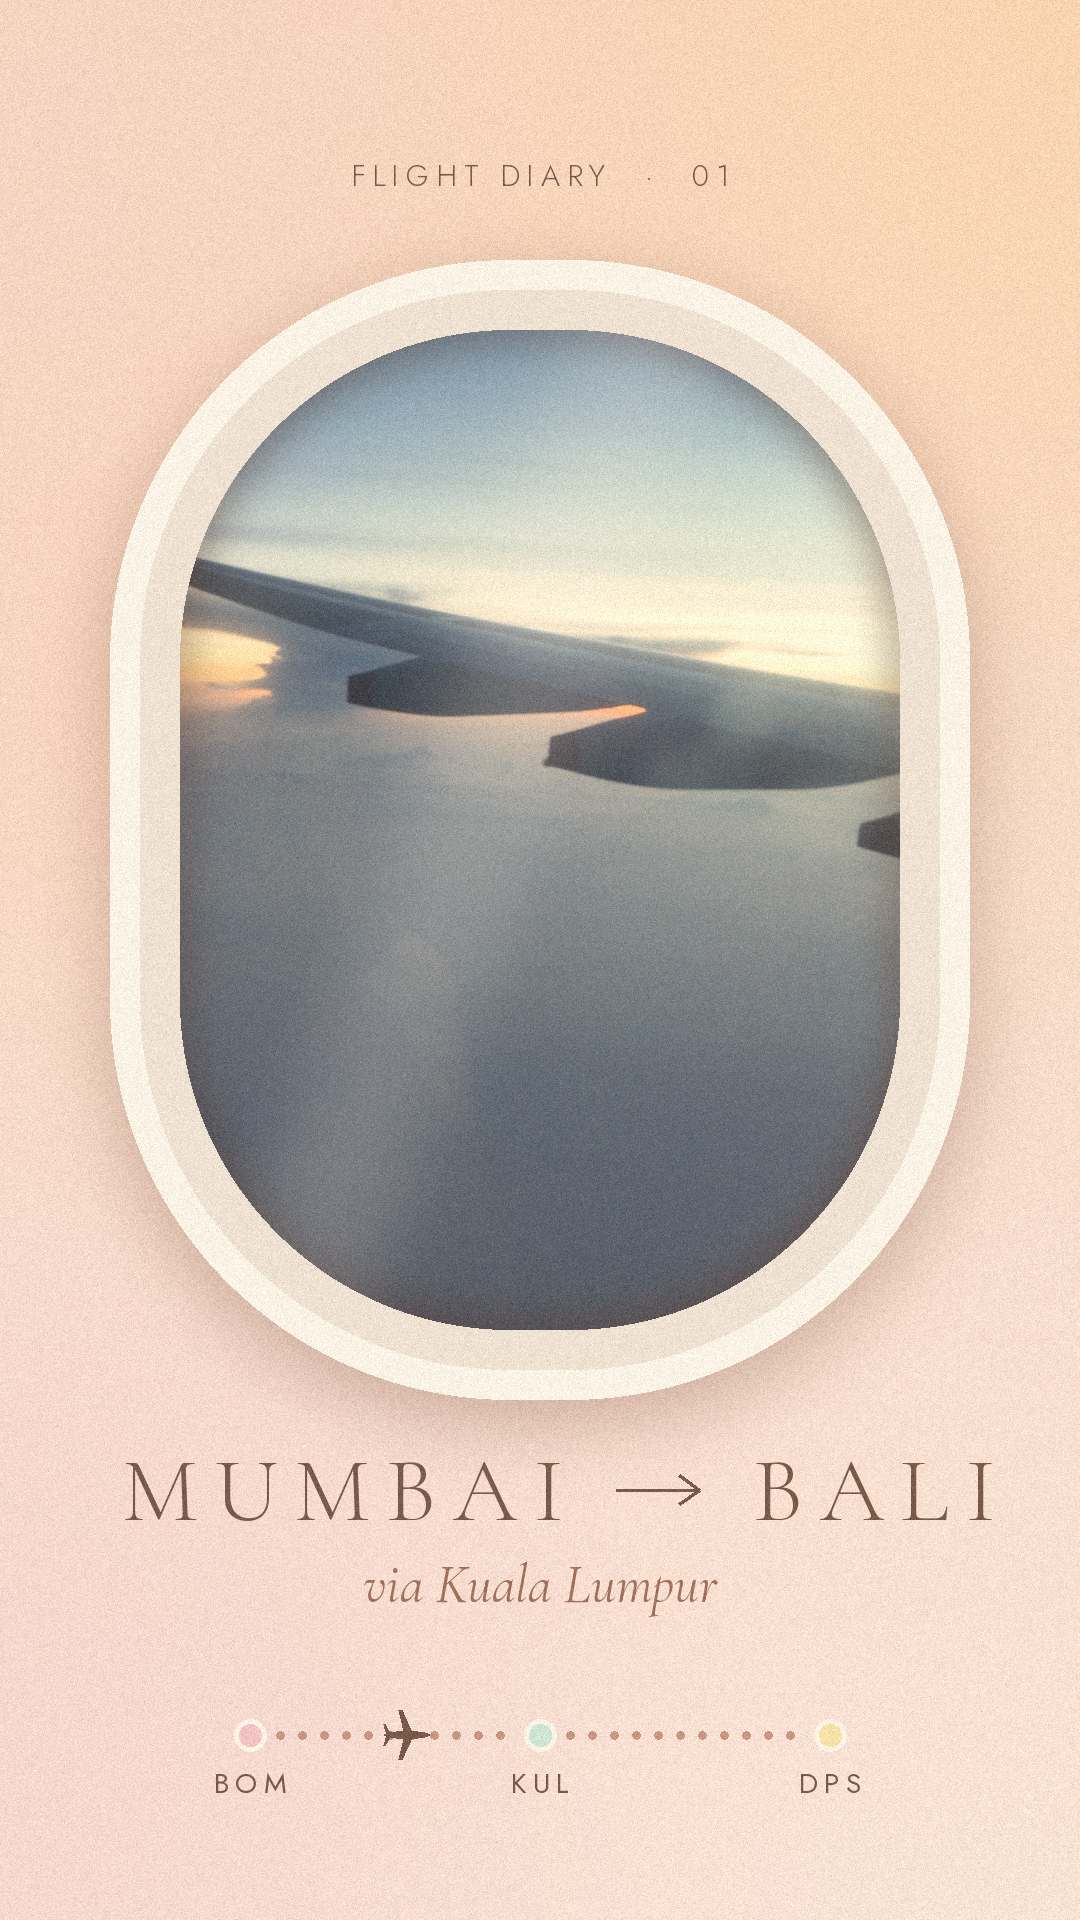
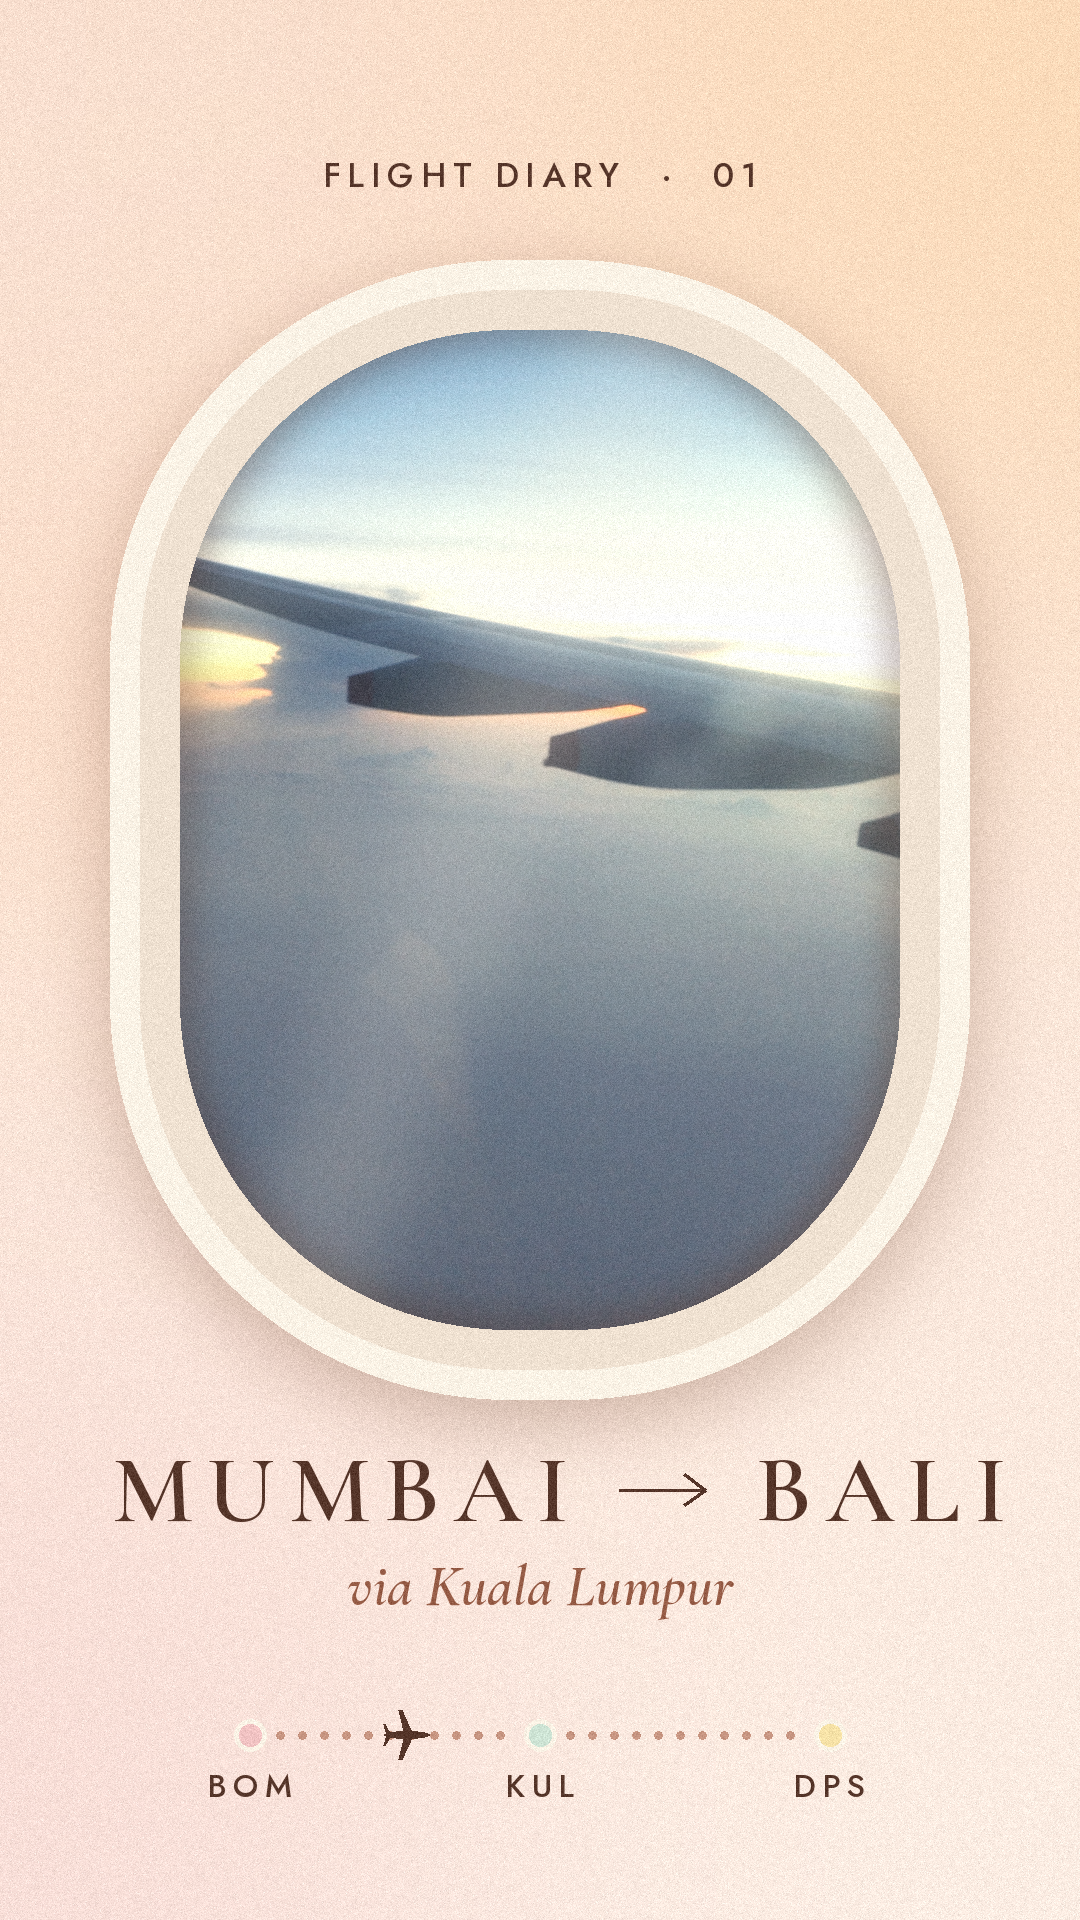
Brighten style frames and make on-screen text more legible
Brighter footage grade, bolder font weights, darker text colour and
slightly larger captions.

Claude-Session: https://claude.ai/code/session_01Lcr6SnvJFPy48tcbSxG92y

diff --git a/tools/style_frames.py b/tools/style_frames.py
@@ -7,11 +7,11 @@ OUT = sys.argv[2]
 W, H = 1080, 1920
 F = BASE + "/fonts/"
 caveat = lambda s: ImageFont.truetype(F + "f1.ttf", s)
-corm_i = lambda s: ImageFont.truetype(F + "f2.ttf", s)
-corm_l = lambda s: ImageFont.truetype(F + "f3.ttf", s)
+corm_i = lambda s: ImageFont.truetype(F + "g1.ttf", s)
+corm_l = lambda s: ImageFont.truetype(F + "g2.ttf", s)
 corm_m = lambda s: ImageFont.truetype(F + "f5.ttf", s)
-jost_l = lambda s: ImageFont.truetype(F + "f6.ttf", s)
-jost = lambda s: ImageFont.truetype(F + "f7.ttf", s)
+jost_l = lambda s: ImageFont.truetype(F + "g3.ttf", s)
+jost = lambda s: ImageFont.truetype(F + "g3.ttf", s)
 
 CREAM = (251, 243, 230)
 PEACH = (246, 213, 193)
@@ -21,16 +21,16 @@ MINT = (207, 229, 214)
 SAGE = (169, 200, 180)
 POWDER = (207, 221, 234)
 SUN = (245, 192, 74)
-INK = (122, 90, 74)
+INK = (86, 54, 42)
 
 
 def grade(img, warmth=1.0):
     """Warm peach film grade: lifted blacks, softened saturation, bloom, grain."""
     a = np.asarray(img.convert("RGB")).astype(np.float32) / 255.0
     lum = a.mean(axis=2, keepdims=True)
-    a = lum + (a - lum) * 0.82                       # desaturate a touch
+    a = lum + (a - lum) * 0.9                        # desaturate a touch
     a = a * np.array([1.06, 1.0, 0.90]) ** warmth    # warm shift
-    a = 0.10 + a * 0.86                              # lift blacks, soften whites
+    a = 0.07 + a * 1.08                              # lift blacks, brighten
     a = a + np.array([0.03, 0.012, -0.005]) * warmth  # peach tint in shadows
     a = np.clip(a, 0, 1)
     out = Image.fromarray((a * 255).astype(np.uint8))
@@ -148,7 +148,7 @@ def dotted_curve(d, pts, color, r=5, step=26):
 
 # ---------- Frame 1: hook, sunrise wing in an airplane window ----------
 def frame1():
-    base = paper_bg(PEACH, (250, 228, 214)).convert("RGBA")
+    base = paper_bg((250, 224, 208), (253, 238, 228)).convert("RGBA")
     light_leak(base, (980, 160), 420, (255, 214, 160), 120)
     light_leak(base, (300, 700), 300, (255, 190, 140), 60)
     light_leak(base, (80, 1700), 380, BLUSH, 90)
@@ -189,9 +189,9 @@ def frame1():
     base.alpha_composite(sl, (wx, wy))
 
     d = ImageDraw.Draw(base)
-    spaced(d, (W / 2, 175), "FLIGHT DIARY  ·  01", jost_l(30), INK + (200,), 7)
-    spaced(d, (W / 2, 1490), "MUMBAI → BALI", corm_l(92), INK, 16)
-    d.text((W / 2, 1585), "via Kuala Lumpur", font=corm_i(54), fill=(160, 112, 92), anchor="mm")
+    spaced(d, (W / 2, 175), "FLIGHT DIARY  ·  01", jost_l(34), INK, 7)
+    spaced(d, (W / 2, 1490), "MUMBAI → BALI", corm_l(96), INK, 14)
+    d.text((W / 2, 1585), "via Kuala Lumpur", font=corm_i(58), fill=(150, 92, 70), anchor="mm")
 
     # mini route
     pts = [(250, 1735), (540, 1735), (830, 1735)]
@@ -200,7 +200,7 @@ def frame1():
             d.ellipse((k - 4, y - 4, k + 4, y + 4), fill=(200, 150, 130))
     for (x, y), lab, col in zip(pts, ["BOM", "KUL", "DPS"], [BLUSH, MINT, BUTTER]):
         d.ellipse((x - 16, y - 16, x + 16, y + 16), fill=col, outline=CREAM, width=5)
-        spaced(d, (x, y + 48), lab, jost(28), INK, 6)
+        spaced(d, (x, y + 50), lab, jost(32), INK, 6)
     pl = plane_icon(54, INK + (255,)).rotate(-90, expand=True, resample=Image.BICUBIC)
     base.alpha_composite(pl, (380, 1735 - pl.height // 2))
 
@@ -225,15 +225,15 @@ def frame2():
 
     d = ImageDraw.Draw(base)
     # top label
-    pill(base, (W / 2, 210), "FLIGHT 1  ·  MUMBAI TO KL", jost(30), fg=INK, bg=CREAM, pad=(40, 20))
-    pill(base, (W / 2, 300), "1:00 am dinner", corm_i(40), fg=INK, bg=PEACH, pad=(30, 10), alpha=220)
+    pill(base, (W / 2, 210), "FLIGHT 1  ·  MUMBAI TO KL", jost(34), fg=INK, bg=CREAM, pad=(40, 20))
+    pill(base, (W / 2, 300), "1:00 am dinner", corm_i(46), fg=INK, bg=PEACH, pad=(30, 10), alpha=220)
     # handwritten stickers
     pill(base, (300, 1180), "paratha", caveat(66), fg=INK, bg=BUTTER, rot=6)
     pill(base, (770, 600), "veg meal", caveat(58), fg=INK, bg=MINT, rot=-5)
     pill(base, (790, 700), "theek-thaak ~", caveat(50), fg=INK, bg=BLUSH, rot=-3)
     # subtitle, kept above the bottom UI safe zone
-    pill(base, (W / 2, 1495), "Maine veg liya,", jost(48), fg=INK, bg=CREAM, pad=(38, 16), alpha=240)
-    pill(base, (W / 2, 1590), "husband ne non-veg", jost(48), fg=INK, bg=CREAM, pad=(38, 16), alpha=240)
+    pill(base, (W / 2, 1495), "Maine veg liya,", jost(54), fg=INK, bg=CREAM, pad=(38, 16), alpha=240)
+    pill(base, (W / 2, 1600), "husband ne non-veg", jost(54), fg=INK, bg=CREAM, pad=(38, 16), alpha=240)
 
     out = grain(base.convert("RGB"), 9, 2)
     out.save(OUT + "/style_frame_2_meal.png")
@@ -258,7 +258,7 @@ def frame3():
     path = dotted_curve(d, pts, (196, 150, 130), r=5, step=24)
     for (x, y), lab, col in zip(pts, ["Mumbai", "Kuala Lumpur", "Bali"], [BLUSH, POWDER, BUTTER]):
         d.ellipse((x - 18, y - 18, x + 18, y + 18), fill=col, outline=(255, 255, 255), width=6)
-        d.text((x, y + 52), lab, font=corm_i(40), fill=INK, anchor="mm")
+        d.text((x, y + 54), lab, font=corm_i(46), fill=INK, anchor="mm")
     # plane approaching Bali
     i = int(len(path) * 0.86)
     (x0, y0), (x1, y1) = path[i - 3], path[i + 3]
@@ -307,9 +307,9 @@ def frame3():
     base.alpha_composite(palm)
 
     d = ImageDraw.Draw(base)
-    spaced(d, (W / 2, 250), "NEXT STOP", jost_l(40), INK, 18)
+    spaced(d, (W / 2, 250), "NEXT STOP", jost_l(44), INK, 18)
     d.text((W / 2, 400), "Bali", font=corm_i(200), fill=INK, anchor="mm")
-    d.text((W / 2, 1830), "baaki trip ke liye follow karte raho", font=caveat(56), fill=INK, anchor="mm")
+    d.text((W / 2, 1830), "baaki trip ke liye follow karte raho", font=caveat(62), fill=INK, anchor="mm")
 
     out = grain(base.convert("RGB"), 7, 3)
     out.save(OUT + "/style_frame_3_outro.png")
